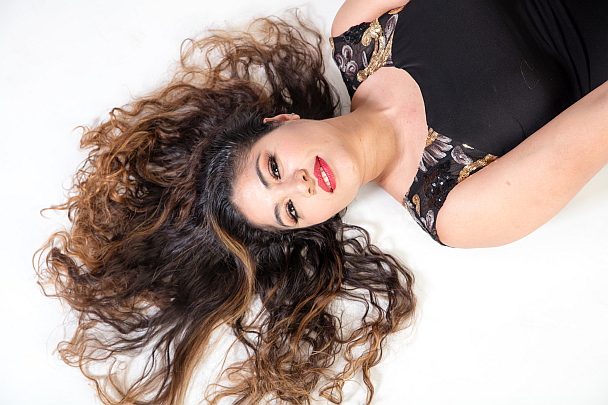
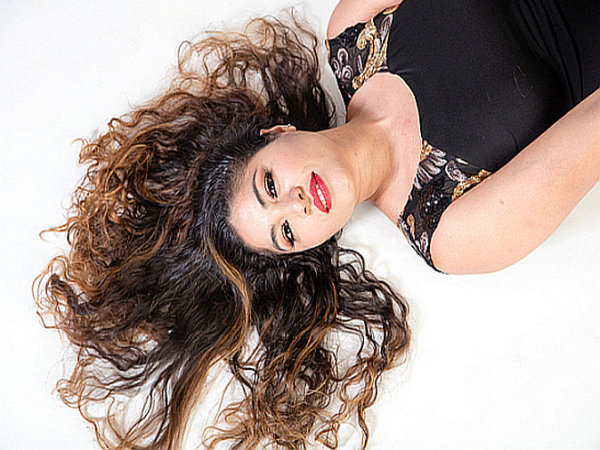
added pic, must be 600x450

diff --git a/index.html b/index.html
@@ -52,7 +52,7 @@
 								   <hr class="small" />
 								   <a href="#" class="button" >Click Below</a>
 								 </div>
-									   <img src="https://unsplash.it/600/450" alt="Get Personal" href="#" data-modal="#modal2" class="modal__trigger" />
+									   <img src="./images/Celsa headhot1.jpg" alt="Get Personal" href="#" data-modal="#modal2" class="modal__trigger" />
 									 </div>
 								   </li>
 								   <li>
